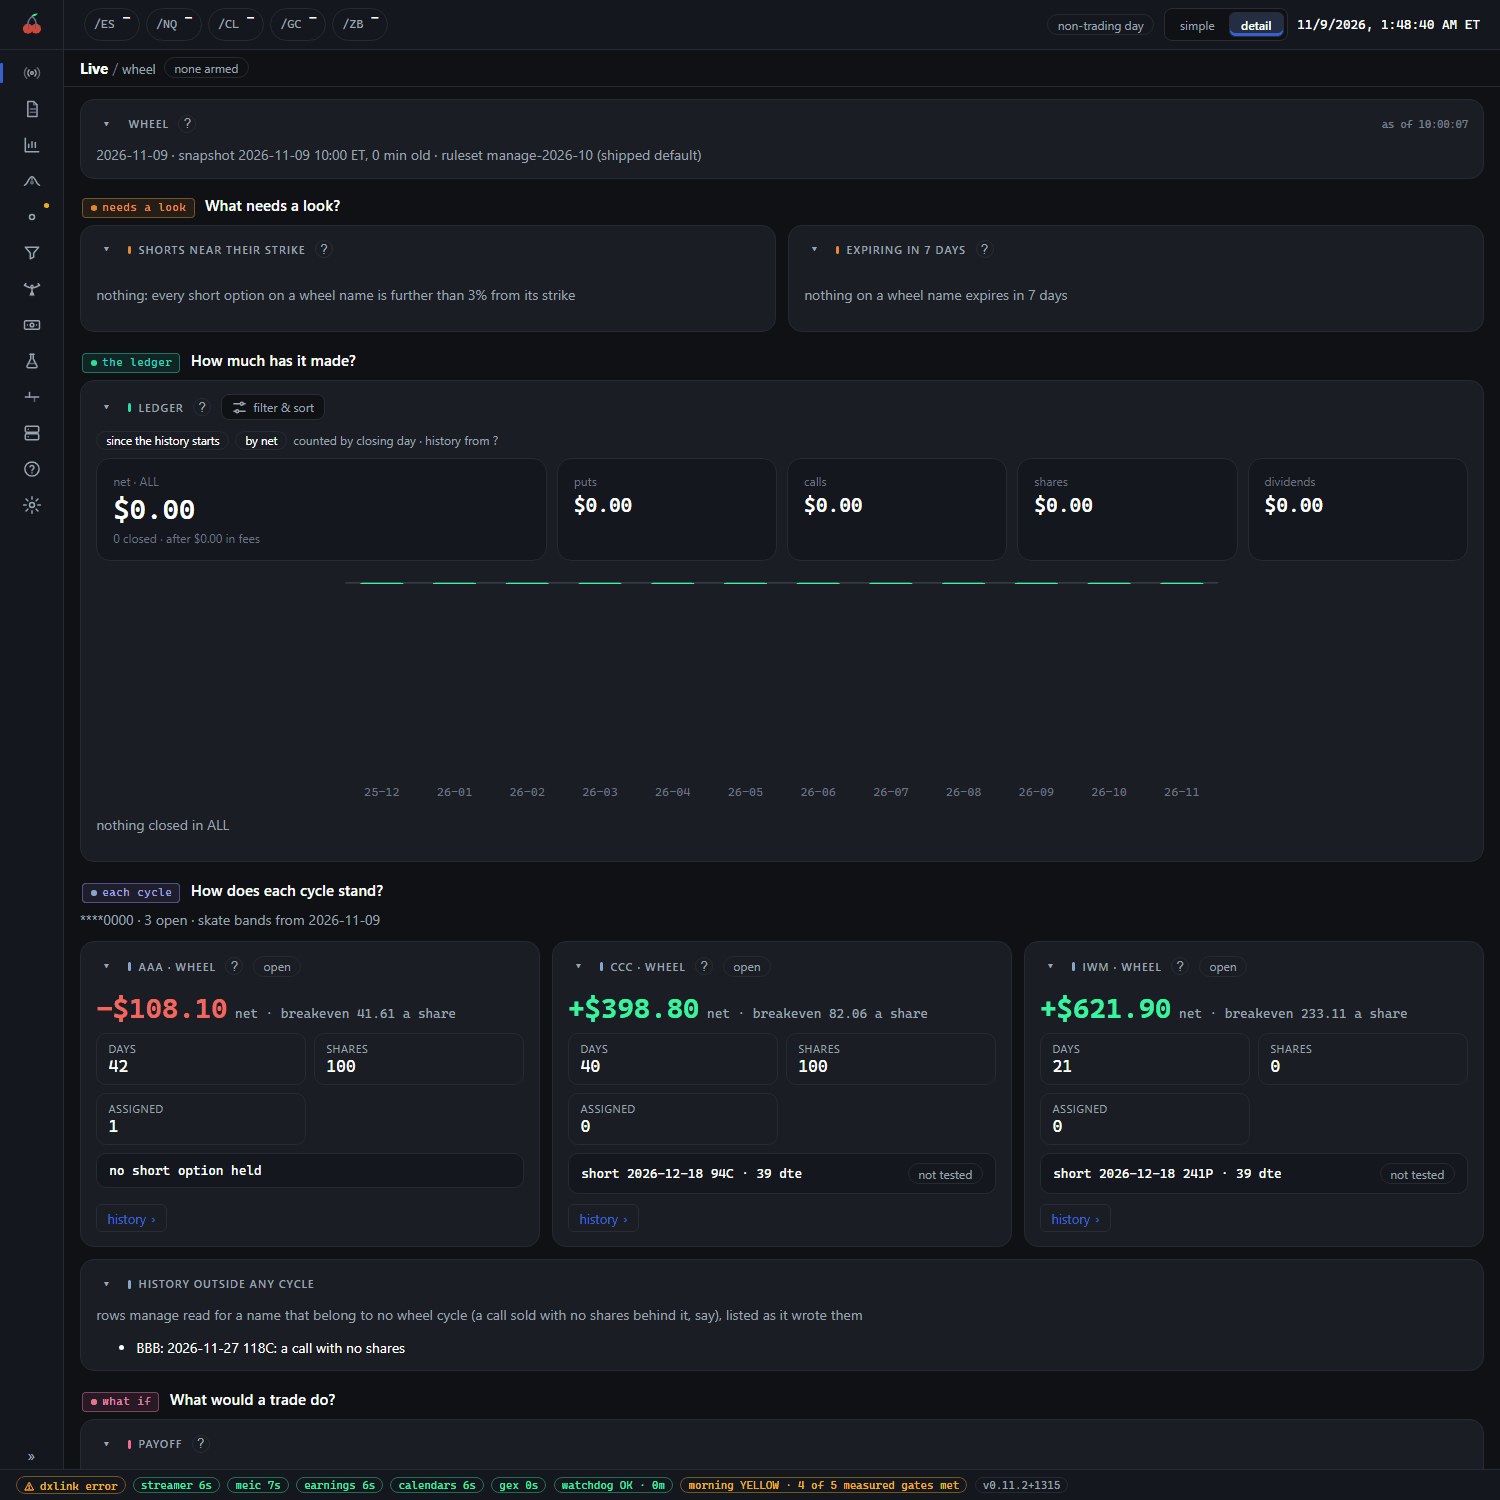
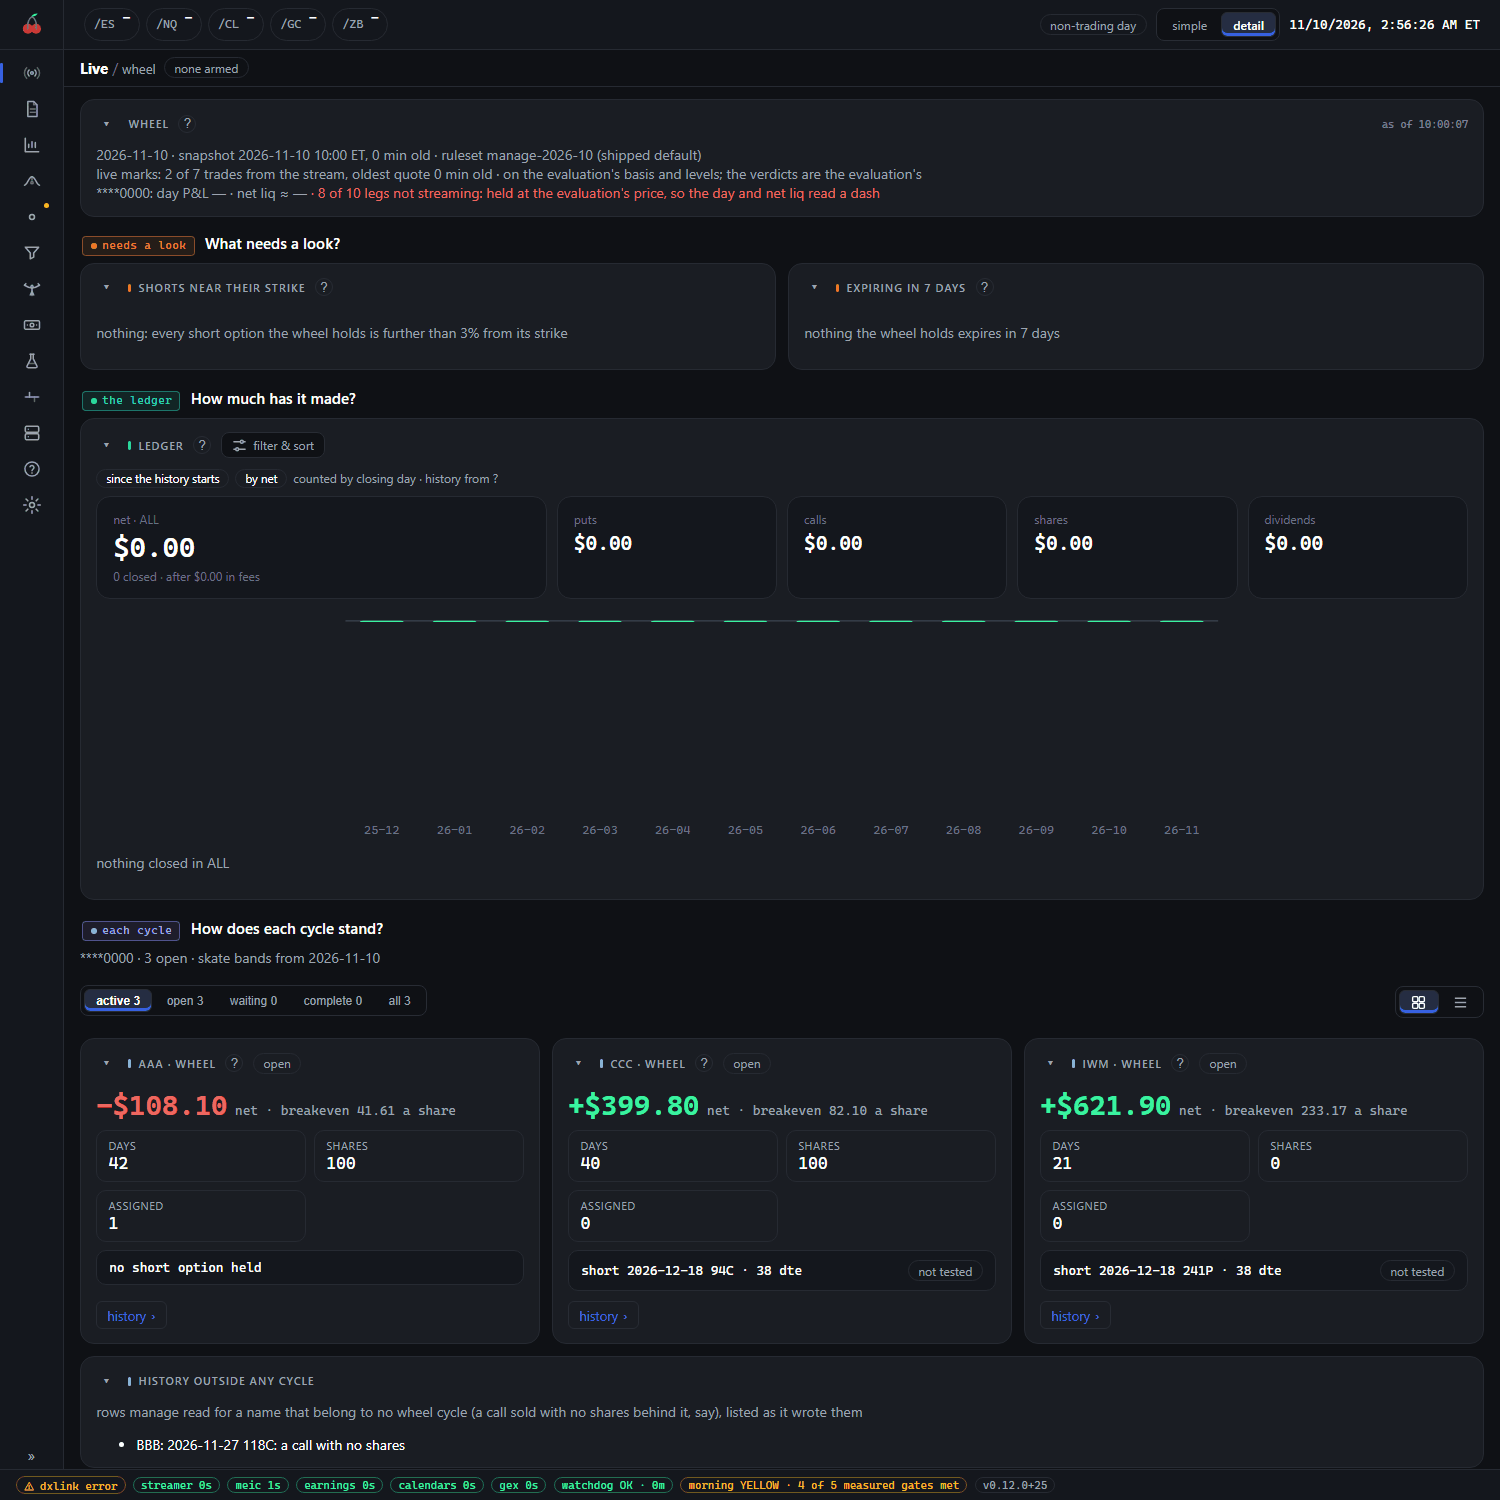
release: name v0.12.1-beta, moving delta
The changelog's Unreleased section becomes v0.12.1-beta (2026-11-10), with
a short narrative, Upgrading and What's new; a fresh Unreleased sits
above it. release/manifest.json gets the beta's entry: its upgrade notes
and the optional portfolio.delta_ideas block in manage.json.

The guide's wheel and system-health screenshots are retaken from the
demo home (scripts/reshoot.py). live-today.png is left as it was: the
reshoot caught two status-bar chips still loading, and nothing on that
page changed in this release.

diff --git a/packages/orchestrator/tests/test_migrations.py b/packages/orchestrator/tests/test_migrations.py
@@ -11,7 +11,7 @@ from pathlib import Path
 import pytest
 
 from cherrypick.orchestrator import config as cfgmod
-from cherrypick.orchestrator import migrations
+from cherrypick.orchestrator import migrations, upgrade
 from cherrypick.orchestrator.migrations import Migration, MigrationError
 
 ROOT = Path(__file__).resolve().parents[3]
@@ -159,10 +159,8 @@ def test_the_manifest_lists_exactly_the_registry_in_order():
     """Every release's migration ids, oldest release first, are the registry's ids: a migration added
     without telling the person upgrading (or listed but not shipped) fails here."""
     manifest = json.loads((ROOT / "release" / "manifest.json").read_text(encoding="utf-8"))
-
-    def key(tag: str) -> tuple[int, ...]:
-        return tuple(int(p) for p in tag.lstrip("v").split("."))
-
+    # The suite's one version order, betas included (a beta before its release).
+    key = upgrade.parse_tag
     listed = [
         m for tag in sorted(manifest["releases"], key=key) for m in manifest["releases"][tag]["migrations"]
     ]

diff --git a/CHANGELOG.md b/CHANGELOG.md
@@ -11,11 +11,25 @@ beyond the latest release.
 
 ## [Unreleased]
 
-- **Beta releases.** A version can now be tried as a beta (`v0.12.1-beta`) before it is the release.
-  A beta is a GitHub pre-release: `upgrade` and the console's version chip never offer it, and the
-  install instructions skip it, so nobody lands on one by accident. To try one, run
-  `run.py upgrade --to <its tag>`.
+## v0.12.1-beta — 2026-11-10 — moving delta
+The first beta: a pre-release to try before v0.12.1. `upgrade` and the version chip will not offer
+it, and a fresh install will not land on it; it is reached only by name. It adds a way to move the
+book's delta without closing anything, keeps the PMCC tab to PMCCs, and gives the wheel tab a choice
+of which cycles to show. No stored number changes, and there is no config to set.
 
+### Upgrading
+
+- **To try it:** `python packages/orchestrator/run.py upgrade --to v0.12.1-beta`. It refuses while a
+  live loop is armed or holds a position, as every upgrade does.
+- **Nothing to do by hand.** The manage snapshot now reads a few more broker chains (each put
+  calendar's next expiries), inside the existing `manage.roll_out` cap.
+- **From the beta to the release:** v0.12.1, when it is out, is an ordinary upgrade from here.
+
+### What's new
+
+- **Beta releases.** A version can now be tried as a beta before it is the release. A beta is a
+  GitHub pre-release: `upgrade` and the console's version chip never offer it, and the install
+  instructions skip it, so nobody lands on one by accident.
 - **The PMCC tab shows PMCCs only.** A call calendar or diagonal whose long was not bought deep enough
   to be a PMCC is judged as a time spread, so it no longer gets a PMCC card. A line names it (now
   "calendar" or "diagonal" for what it is) and opens the positions tab's new **time spreads** filter,
